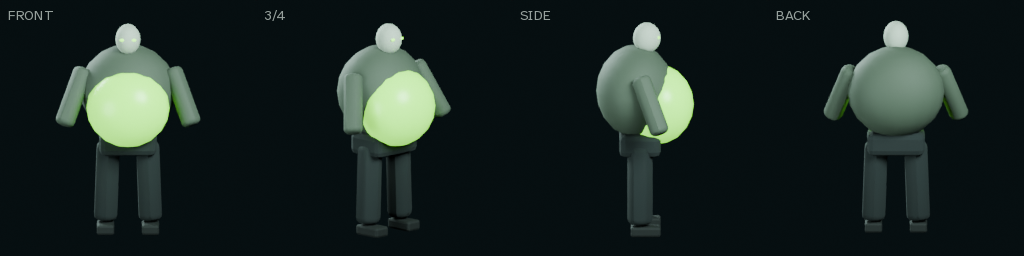
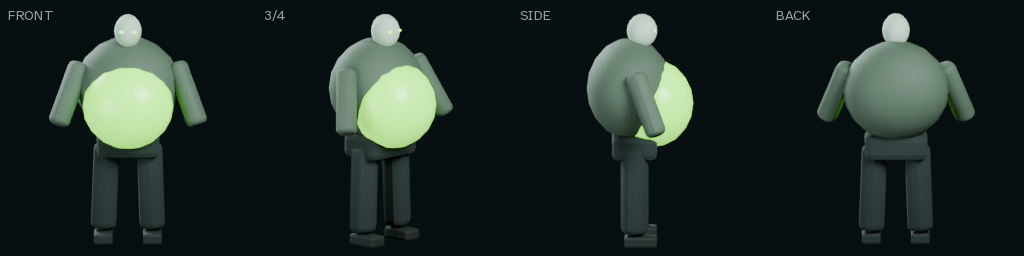
Turn models around their centre so no view is clipped
Claude-Session: https://claude.ai/code/session_012H4uhnqA1HFN2KEEMCkca2

diff --git a/tools/render_turnarounds.py b/tools/render_turnarounds.py
@@ -58,7 +58,7 @@ def setup_scene(size, samples):
         add_light(name, at, energy)
     data = bpy.data.cameras.new("TurnaroundCamera")
     data.type = "ORTHO"
-    data.ortho_scale = 1.2
+    data.ortho_scale = 1.1
     camera = bpy.data.objects.new("TurnaroundCamera", data)
     scene.collection.objects.link(camera)
     camera.location = (0, -5 * math.cos(ELEVATION), 5 * math.sin(ELEVATION))
@@ -80,25 +80,28 @@ def add_light(name, at, energy):
 
 
 def import_model(path):
-    """Import a .glb under one root, scaled so its largest side is 1 and centred on the origin."""
+    """Import a .glb, centred on a turntable pivot and scaled so every view fits a 1 m frame."""
     bpy.ops.import_scene.gltf(filepath=str(path))
     imported = list(bpy.context.selected_objects)
-    root = bpy.data.objects.new("TurntableRoot", None)
-    bpy.context.scene.collection.objects.link(root)
+    pivot = bpy.data.objects.new("TurntablePivot", None)
+    offset = bpy.data.objects.new("TurntableOffset", None)
+    for empty in (pivot, offset):
+        bpy.context.scene.collection.objects.link(empty)
+    offset.parent = pivot
     for obj in imported:
         if obj.parent is None:
-            obj.parent = root
+            obj.parent = offset
     bpy.context.view_layer.update()
     meshes = [obj for obj in imported if obj.type == "MESH"]
     corners = [obj.matrix_world @ Vector(corner) for obj in meshes for corner in obj.bound_box]
     low = Vector(tuple(min(c[i] for c in corners) for i in range(3)))
     high = Vector(tuple(max(c[i] for c in corners) for i in range(3)))
     size = high - low
-    scale = 1 / max(size)
-    root.scale = (scale, scale, scale)
-    root.location = -(low + high) / 2 * scale
+    scale = 1 / max(math.hypot(size.x, size.y), size.z)
+    offset.location = -(low + high) / 2
+    pivot.scale = (scale, scale, scale)
     triangles = sum(len(poly.vertices) - 2 for obj in meshes for poly in obj.data.polygons)
-    return root, size, triangles
+    return pivot, size, triangles
 
 
 def render_model(path, directory, args):

diff --git a/tools/test_turnarounds.py b/tools/test_turnarounds.py
@@ -5,6 +5,7 @@ import tempfile
 import unittest
 from pathlib import Path
 
+import numpy as np
 from PIL import Image
 
 sys.path.insert(0, str(Path(__file__).resolve().parent))
@@ -44,6 +45,23 @@ class ReferenceTests(unittest.TestCase):
         for category, name, _ in turnarounds.find_models():
             path = turnarounds.approved_path(category, name)
             self.assertTrue(path.is_file(), f"run tools/render_turnarounds.py --approve for {category}/{name}")
+
+
+class ApprovedFramingTests(unittest.TestCase):
+    def test_every_view_is_centred_and_not_clipped(self):
+        for category, name, _ in turnarounds.find_models():
+            with Image.open(turnarounds.approved_path(category, name)) as image:
+                pixels = np.asarray(image.convert("RGB"), dtype=np.int16)
+            size = pixels.shape[0]
+            for index, (view, _) in enumerate(turnarounds.VIEWS):
+                panel = pixels[size // 8 :, index * size : (index + 1) * size]
+                content = np.abs(panel - panel[-1, -1]).max(axis=2) > turnarounds.PIXEL_TOLERANCE
+                columns = np.flatnonzero(content.any(axis=0))
+                label = f"{category}/{name} {view}"
+                self.assertGreater(columns.size, 0, label)
+                self.assertGreater(columns[0], 0, f"{label} touches the left edge")
+                self.assertLess(columns[-1], size - 1, f"{label} touches the right edge")
+                self.assertLess(abs((columns[0] + columns[-1]) / 2 - size / 2), size * 0.08, f"{label} is off-centre")
 
 
 class CompareTests(unittest.TestCase):
